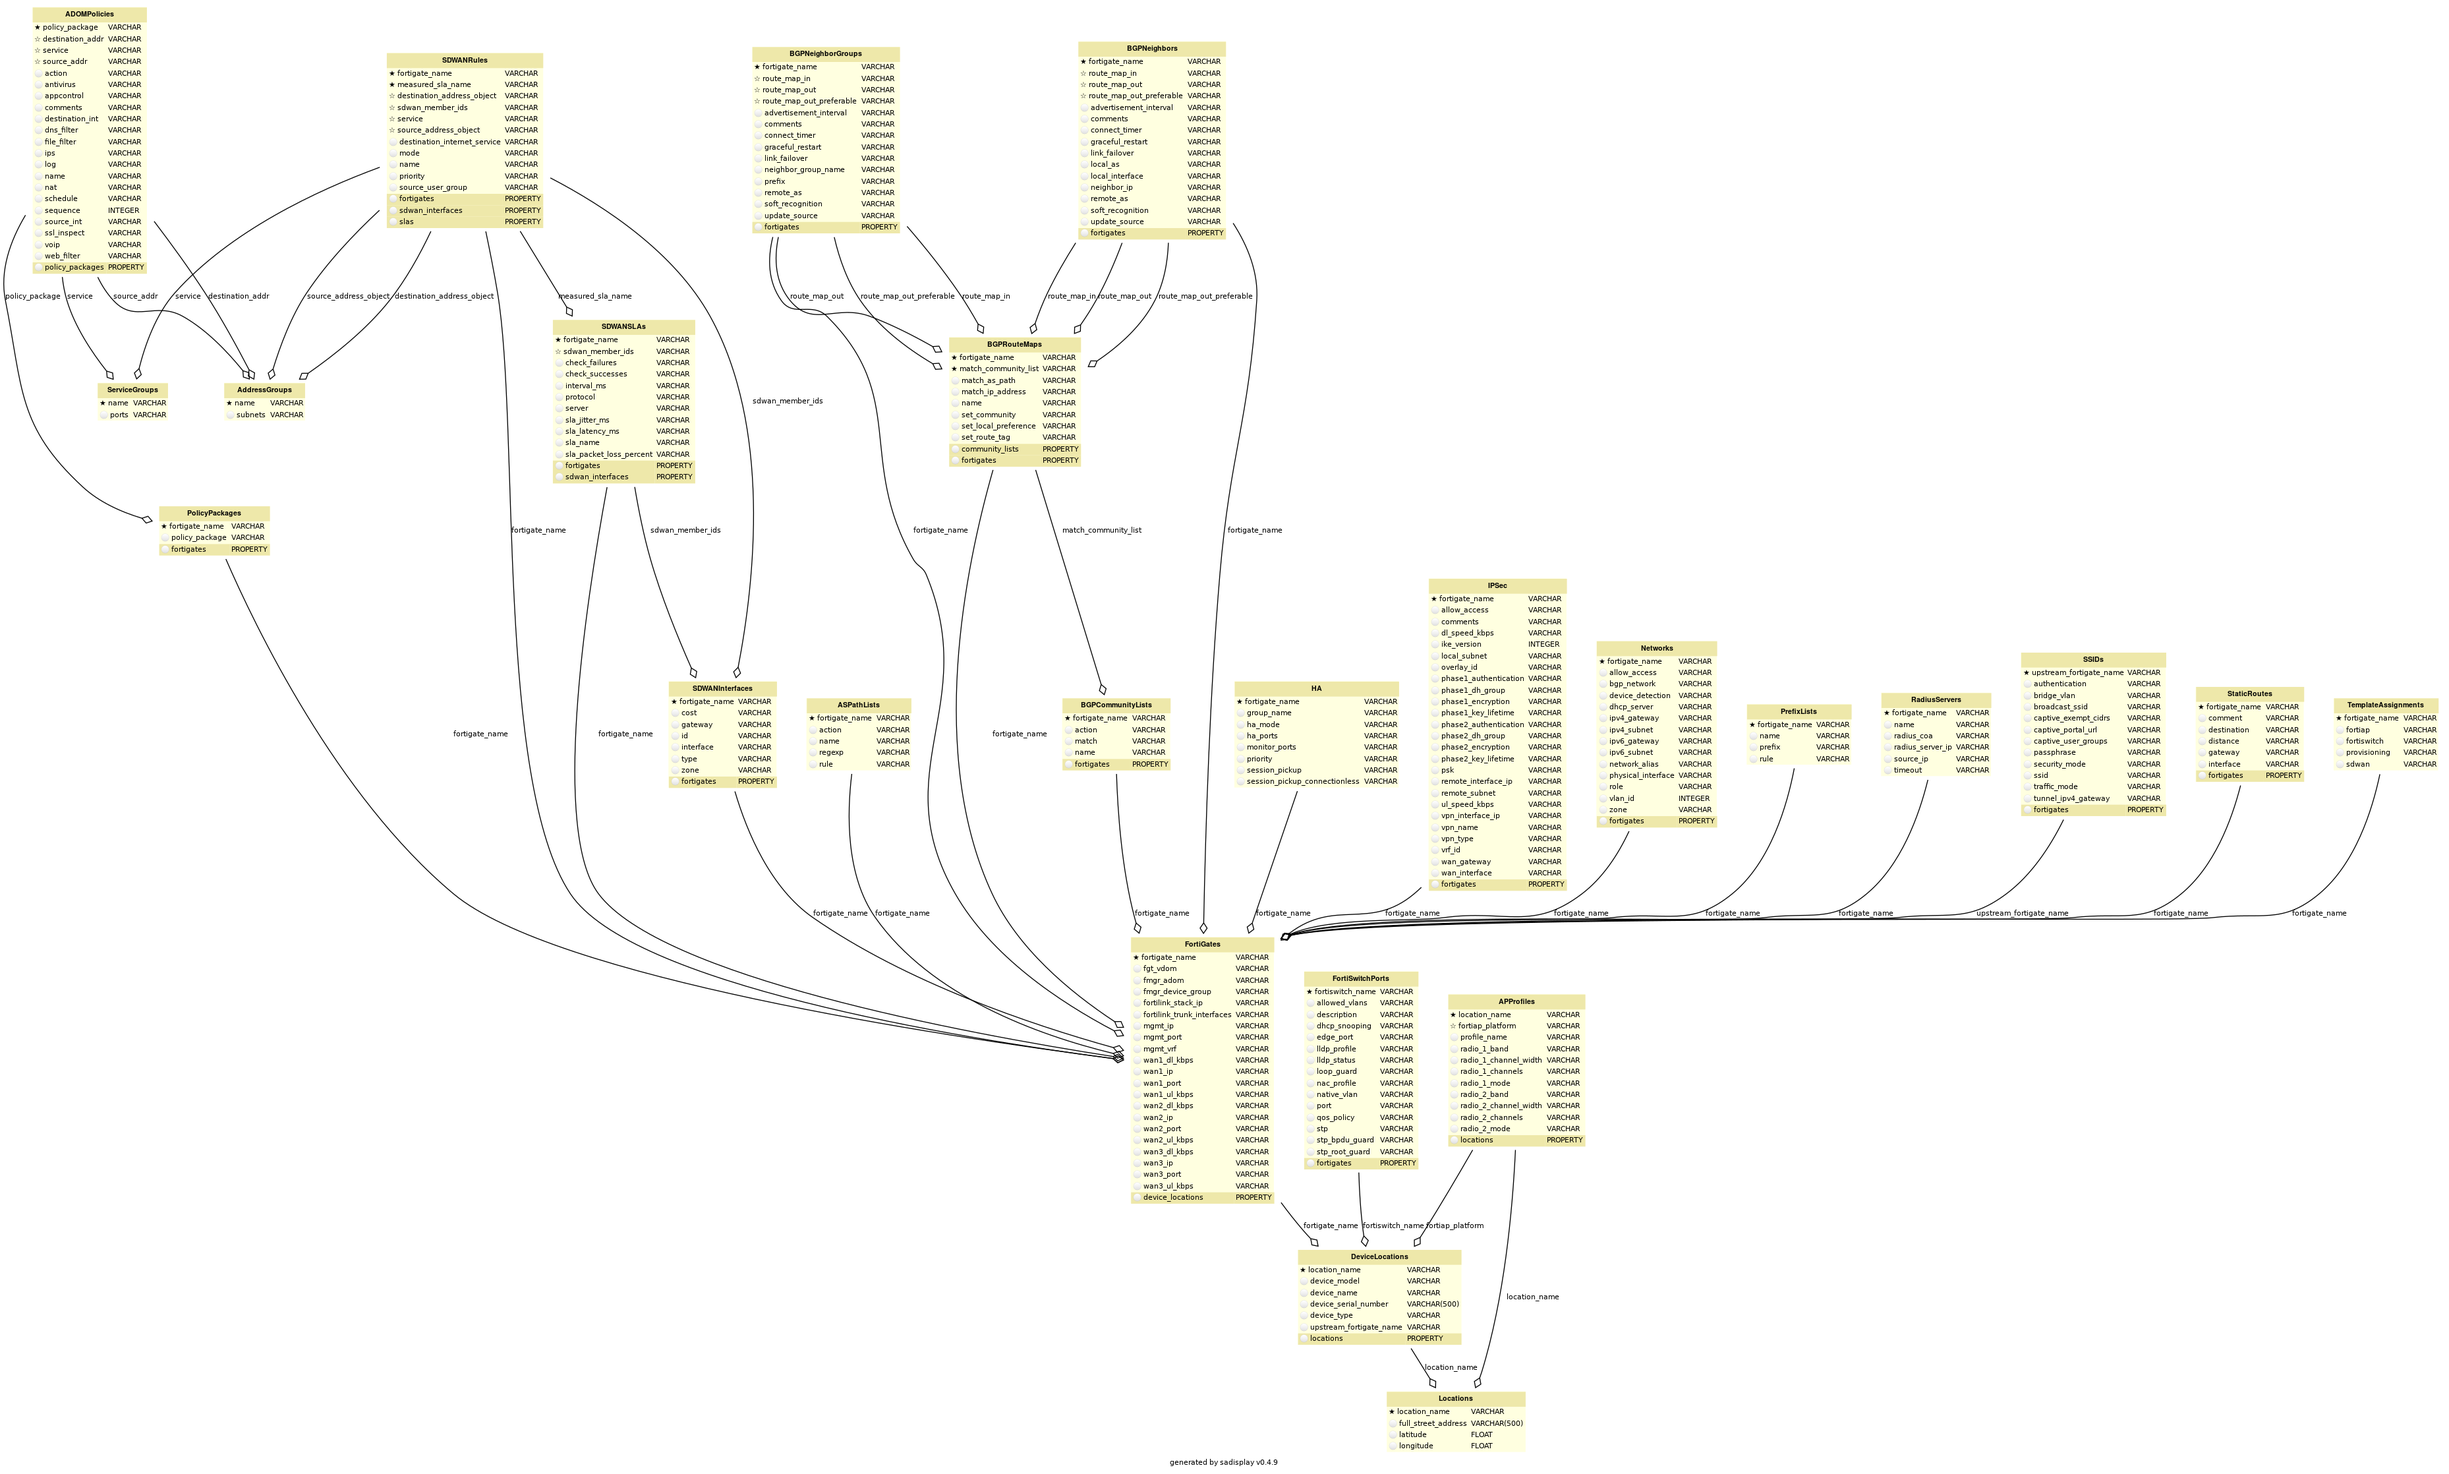
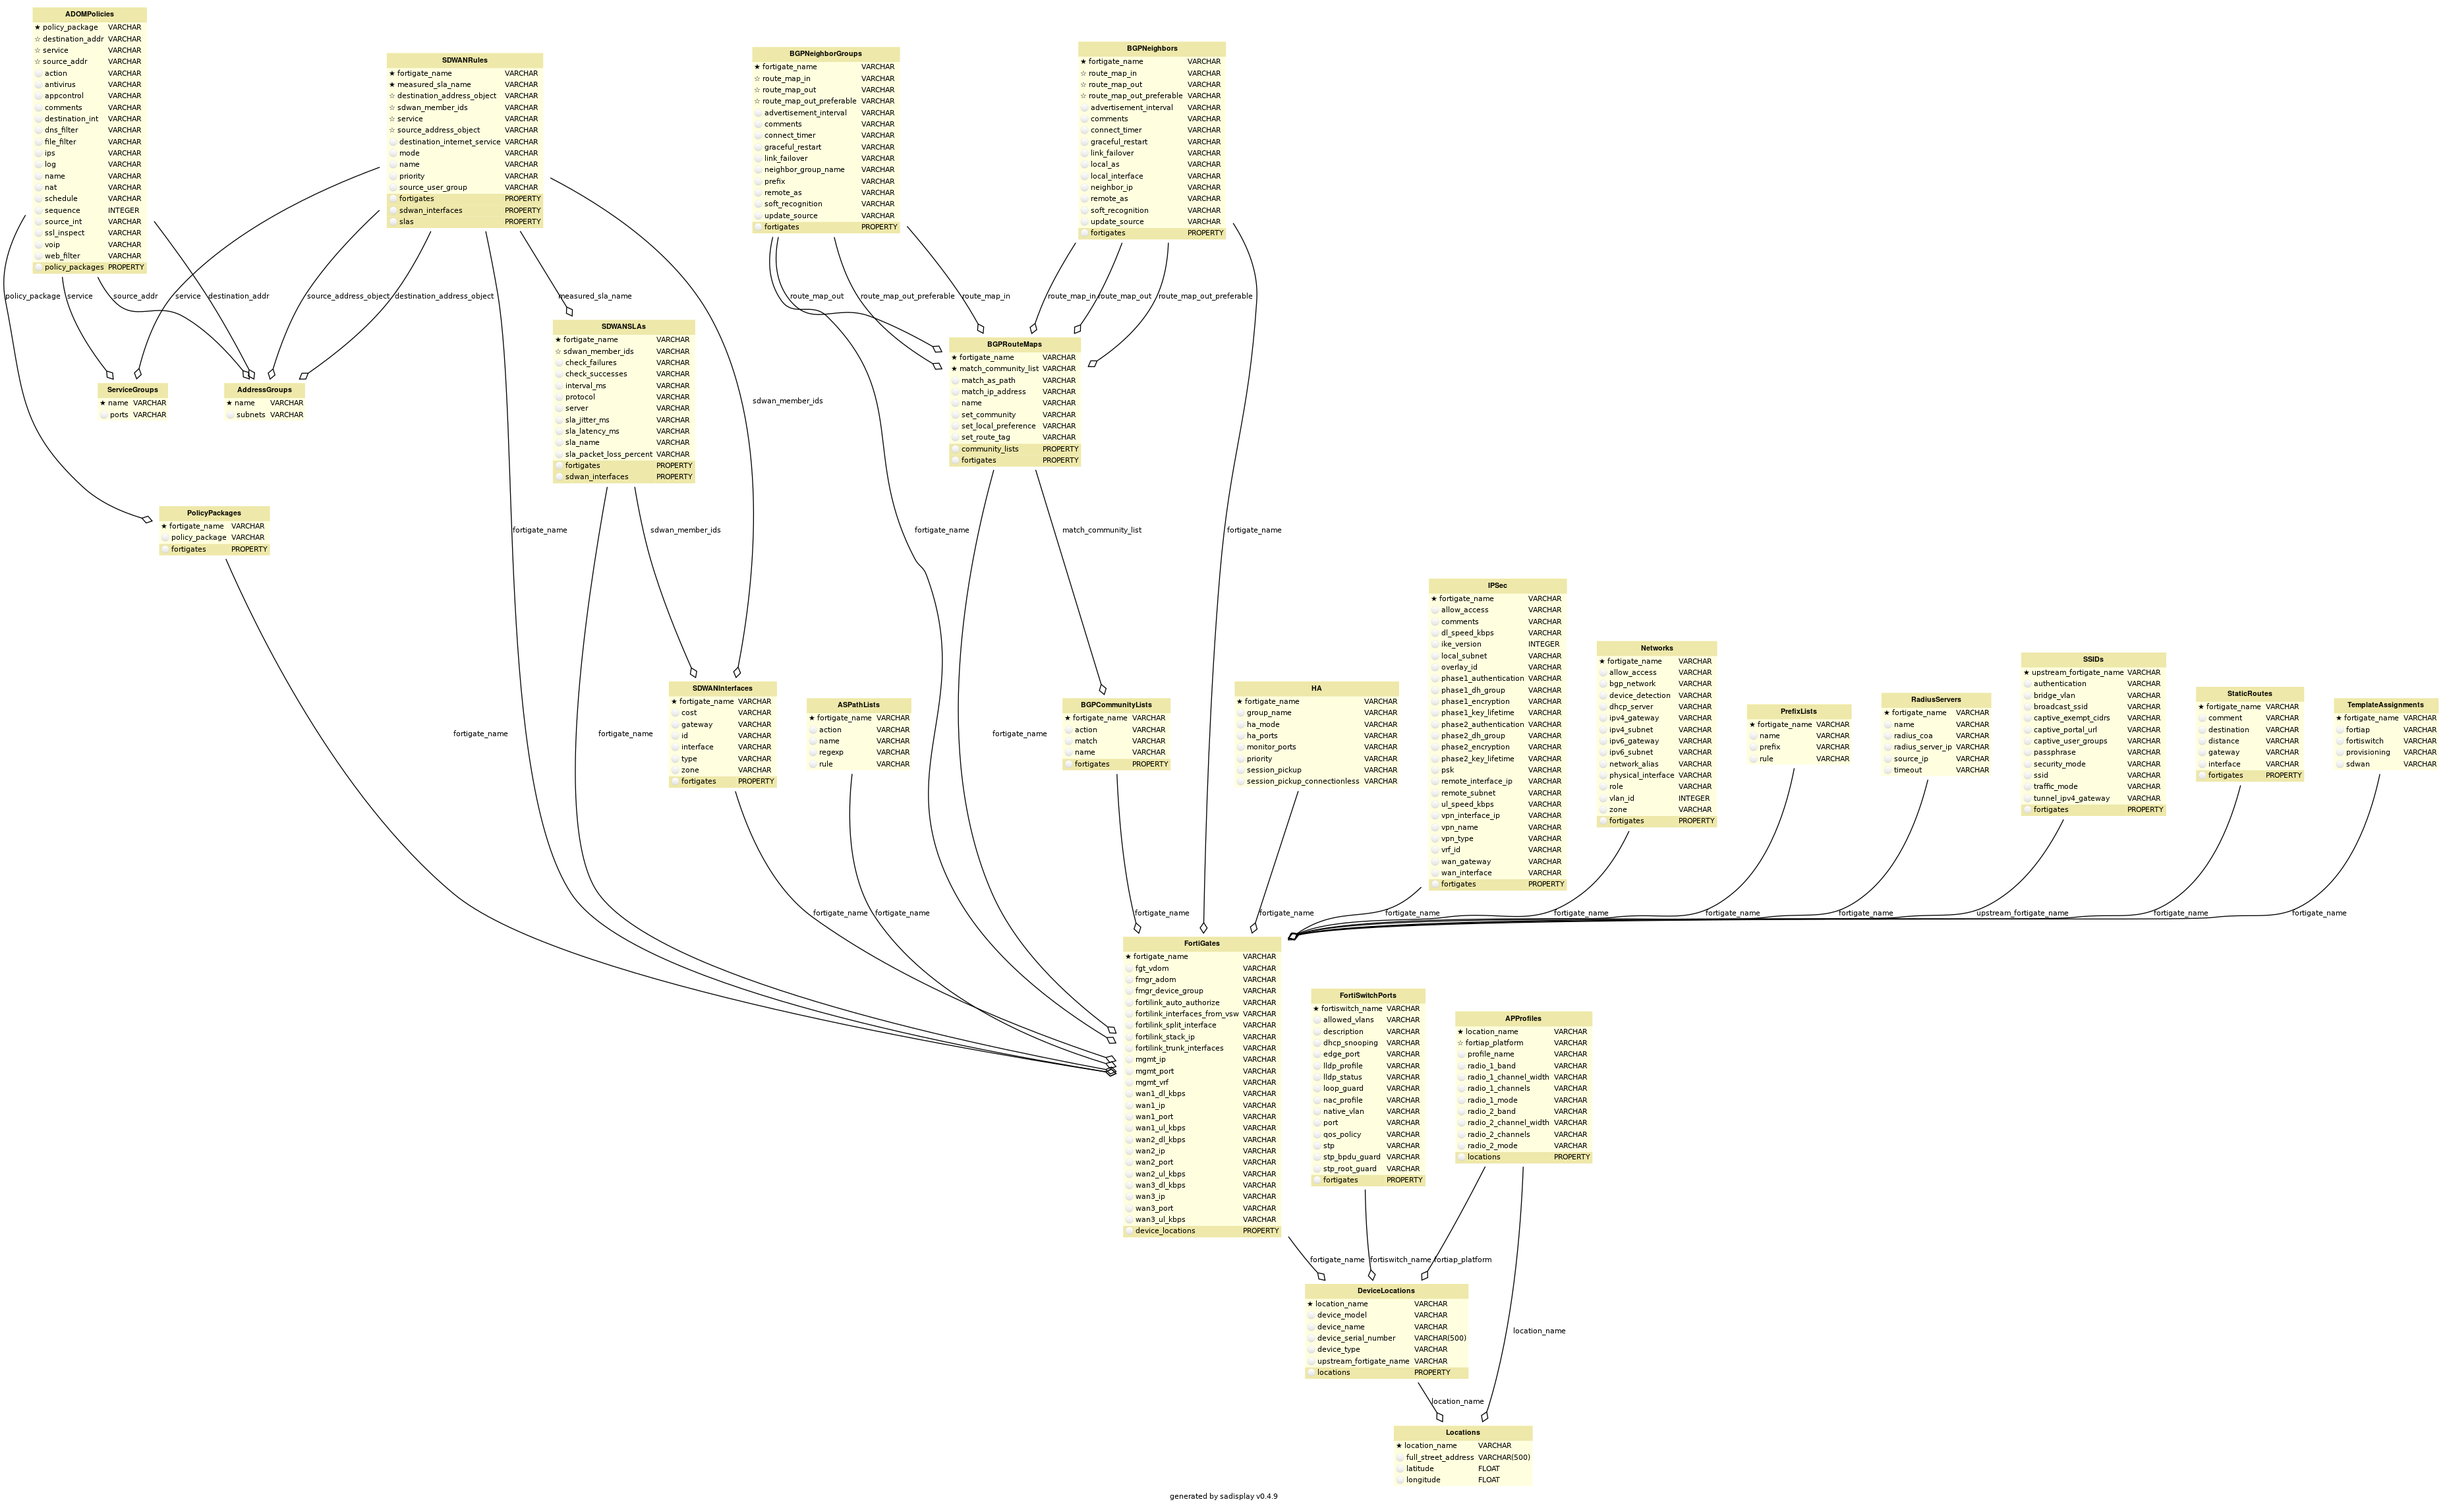
v0.5 Commit.

diff --git a/roles/fortigate.ztp/files/python/ansible_ztp_role_data_model/fortigate_schema.py b/roles/fortigate.ztp/files/python/ansible_ztp_role_data_model/fortigate_schema.py
@@ -113,7 +113,10 @@ def get_schema():
             'fgt_device_model': And(str),
             'fgt_faz_target_ip': Or(str, None),
             'fgt_fortilink_trunk_interfaces': Or(list, None),
+            'fortilink_interfaces_from_vsw': Or(And(str, Or('yes', 'no', 'none')), None),
             'fortilink_stack_ip': Or(str, None),
+            'fortilink_split_interface': Or(And(str, Or('enable', 'disable')), None),
+            'fortilink_auto_authorize': Or(And(str, Or('enable', 'disable')), None),
             'fgt_mgmt_ip': Or(str, None),
             'fgt_mgmt_port': Or(str, None),
             'fgt_mgmt_vrf': Or(int, None),
@@ -190,20 +193,19 @@ def get_schema():
                         {
                             'allowed_vlans': Or(list, None),
                             'description': Or(str, None),
-                            'dhcp_snooping': And(str, Or('trusted', 'untrusted')),
-                            'edge_port': And(str, Or('enable', 'disable')),
+                            'dhcp_snooping': Or(And(str, Or('trusted', 'untrusted')), None),
+                            'edge_port': Or(And(str, Or('enable', 'disable')), None),
                             'fortiswitch_name': And(str),
                             'lldp_profile': Or(str, None),
-                            'lldp_status': And(str, Or('disable', 'tx', 'rx', 'tx-rx')),
-                            'loop_guard': And(str, Or('enable', 'disable')),
+                            'lldp_status': Or(And(str, Or('disable', 'tx', 'rx', 'tx-rx')), None),
+                            'loop_guard': Or(And(str, Or('enable', 'disable')), None),
                             'nac_profile': Or(str, None),
                             'native_vlan': Or(str, None),
                             'port': Or(int, str),
                             'qos_policy': Or(str, None),
-                            'stp': And(str, Or('enable', 'disable')),
-                            'stp_bpdu_guard': And(str, Or('enable', 'disable')),
-                            'stp_root_guard': And(str, Or('enable', 'disable')),
-                            # 'upstream_fortigate_name': And(str)
+                            'stp': Or(And(str, Or('enable', 'disable')), None),
+                            'stp_bpdu_guard': Or(And(str, Or('enable', 'disable')), None),
+                            'stp_root_guard': Or(And(str, Or('enable', 'disable')), None)
 
                         }
                     ]

diff --git a/roles/fortigate.ztp/files/python/consume_spreadsheet.py b/roles/fortigate.ztp/files/python/consume_spreadsheet.py
@@ -125,7 +125,10 @@ def generate_fortigate_var_files(sheets=None):
             'fgt_wan3_ul_speed_kbps': fgt['WAN3 UL kbps'],
             'fmgr_target_adom': fgt['FMGR ADOM'],
             'fgt_vdom': fgt['FGT VDOM'],
+            'fortilink_interfaces_from_vsw': str(fgt['FortiLink Interfaces From VSW']).lower(),
             'fortilink_stack_ip': fgt['FortiLink Stack IP'],
+            'fortilink_split_interface': fgt['FortiLink Split Interface'],
+            'fortilink_auto_authorize': fgt['FortiLink Auto Authorize'],
             'fmgr_target_device_group': fgt['FMGR Device Group'],
             'fgt_local_bgp_as': None,
             'fap_profiles': [],

diff --git a/roles/fortigate.ztp/files/python/organizational_workflow_data_model/organizational_workflow_data_model.py b/roles/fortigate.ztp/files/python/organizational_workflow_data_model/organizational_workflow_data_model.py
@@ -58,7 +58,10 @@ class FortiGates(Base):
     wan3_ul_kbps = Column(String)
     wan3_dl_kbps = Column(String)
     fortilink_trunk_interfaces = Column(String)
+    fortilink_interfaces_from_vsw = Column(String)
     fortilink_stack_ip = Column(String)
+    fortilink_split_interface = Column(String)
+    fortilink_auto_authorize = Column(String)
     fmgr_device_group = Column(String)
 
     device_locations = relationship("DeviceLocations")

diff --git a/CHANGELOG.md b/CHANGELOG.md
@@ -4,35 +4,45 @@
 
 # Releases
 
+* [v0.5 - 4/27/21](#v05)
 * [v0.4 - 4/26/21](#v04)
 * [v0.3 - 4/22/21](#v03)
 * [v0.2 - 4/21/21](#v02)
 * [v0.1 - 4/20/21](#v01)
 
+## v0.5
+
+* Added IPv6 to BGP Network Advertisements.
+* Added FortiLink Split Interface option.
+* Added FortiLink IP Change w/ DHCP Scope Change.
+* Improved the FortiLink interface logic by adding a field "FortiLink Interfaces From VSW" field.
+  * This tells Ansible that the ports desired for FortiLink use are part of a default-factory virtual switch.
+  * This is common on smaller FortiGates for branch offices w/out dedicated FortiLink ports.
+
 ## v0.4
 
-* Added IPv6 Addresses on the Network Interfaces
-* Added validation with FortiAP Radio1/2 Channel Width/Bonding settings
-* Added Enterprise Radius FortiAP Authentication
-* Added basic Captive Portal for SSIDs
-* Added Radius Server 
-* Added Radius Server User group 
-* Changed the "Set Community" field to a parsed list under BGP Route Maps
+* Added IPv6 Addresses on the Network Interfaces.
+* Added validation with FortiAP Radio1/2 Channel Width/Bonding settings.
+* Added Enterprise Radius FortiAP Authentication.
+* Added basic Captive Portal for SSIDs.
+* Added Radius Server.
+* Added Radius Server User group.
+* Changed the "Set Community" field to a parsed list under BGP Route Maps.
 * Added additional fields to BGP Neighbors & Neighbor Groups:
   * Update Source
   * Graceful Restart
   * Soft Configuration
-* Added AS Path Lists with Regex Expressions 
-* Added Prefix Lists
-* Added IPSec Remote IP
-* Added IPSec Allow Access list
-* Added IPSec Bandwidth Limits
+* Added AS Path Lists with Regex Expressions.
+* Added Prefix Lists.
+* Added IPSec Remote IP.
+* Added IPSec Allow Access list.
+* Added IPSec Bandwidth Limits.
 * Added a third digit to the intrinsic sort order of the dvmdb Jinja2 scripts to allow for more customization.
   * This leaves plenty of out-of-box sort order ranges for use.
 
-The Organizational Workflow Data Model has undergone significant changes as a result of the additions above:
+The Organizational Workflow Data Model has undergone significant changes as a result of the additions above.
 
-![](docs/images/spreadsheet_data_model_v0.4.png)
+[Click here to see the v0.4 Organizational Workflow Data Model](docs/images/spreadsheet_data_model_v0.4.png)
 
 ### Known Issues
 
